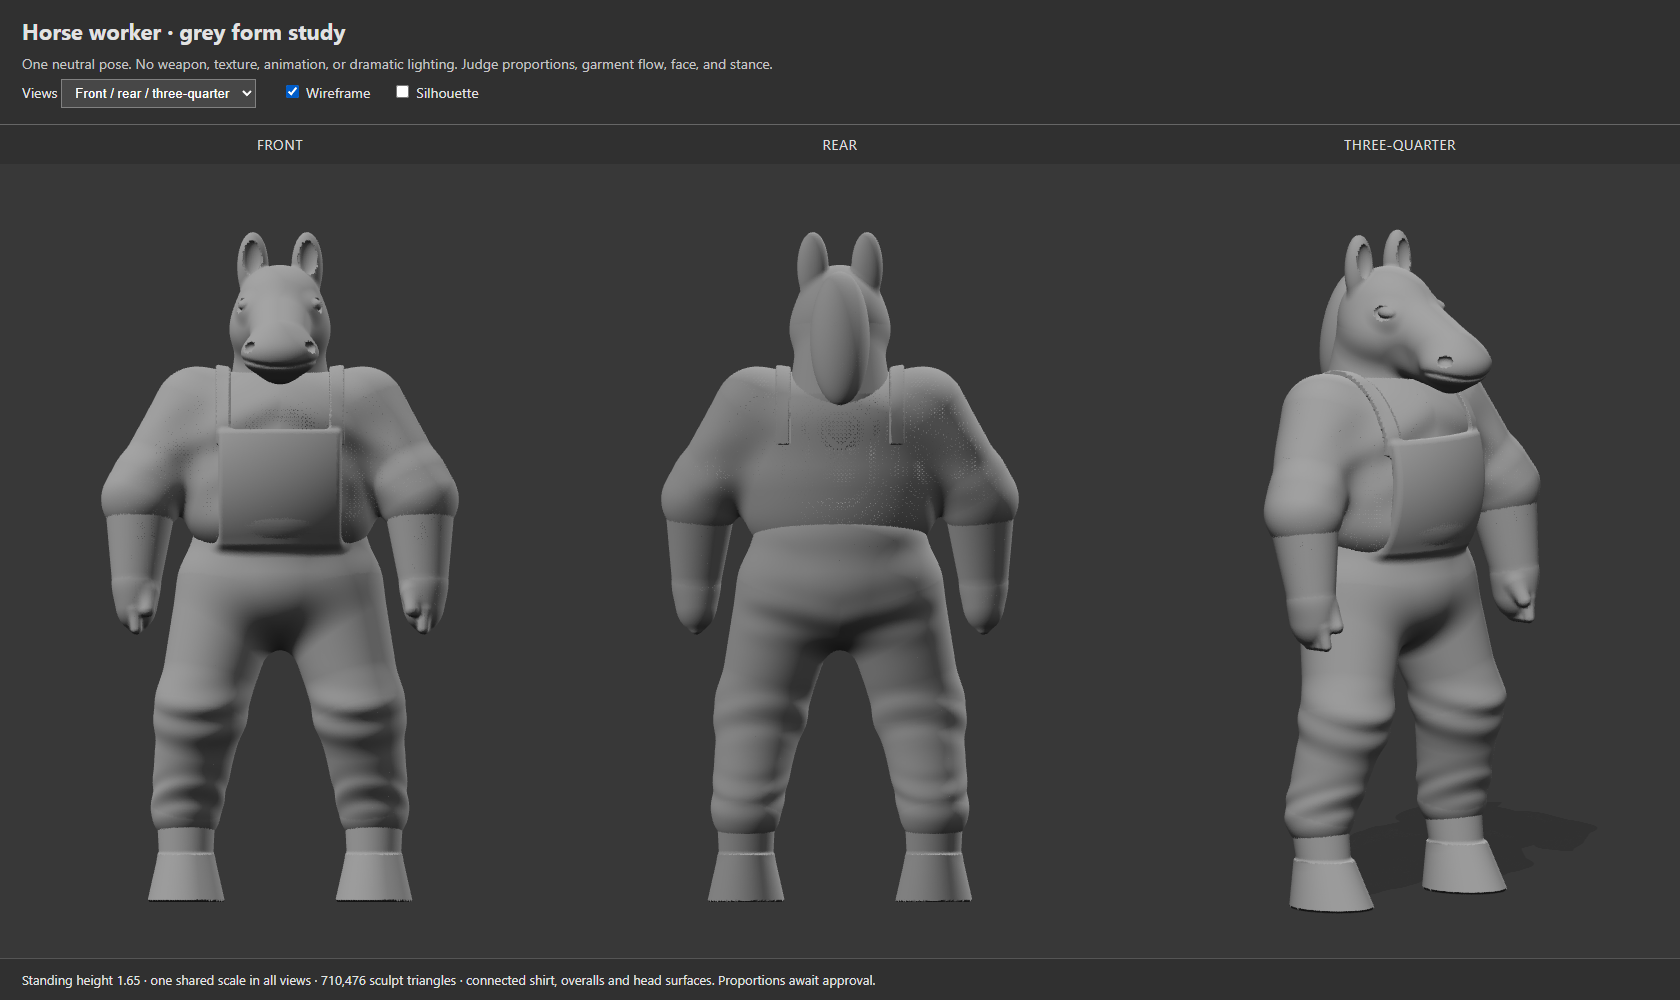
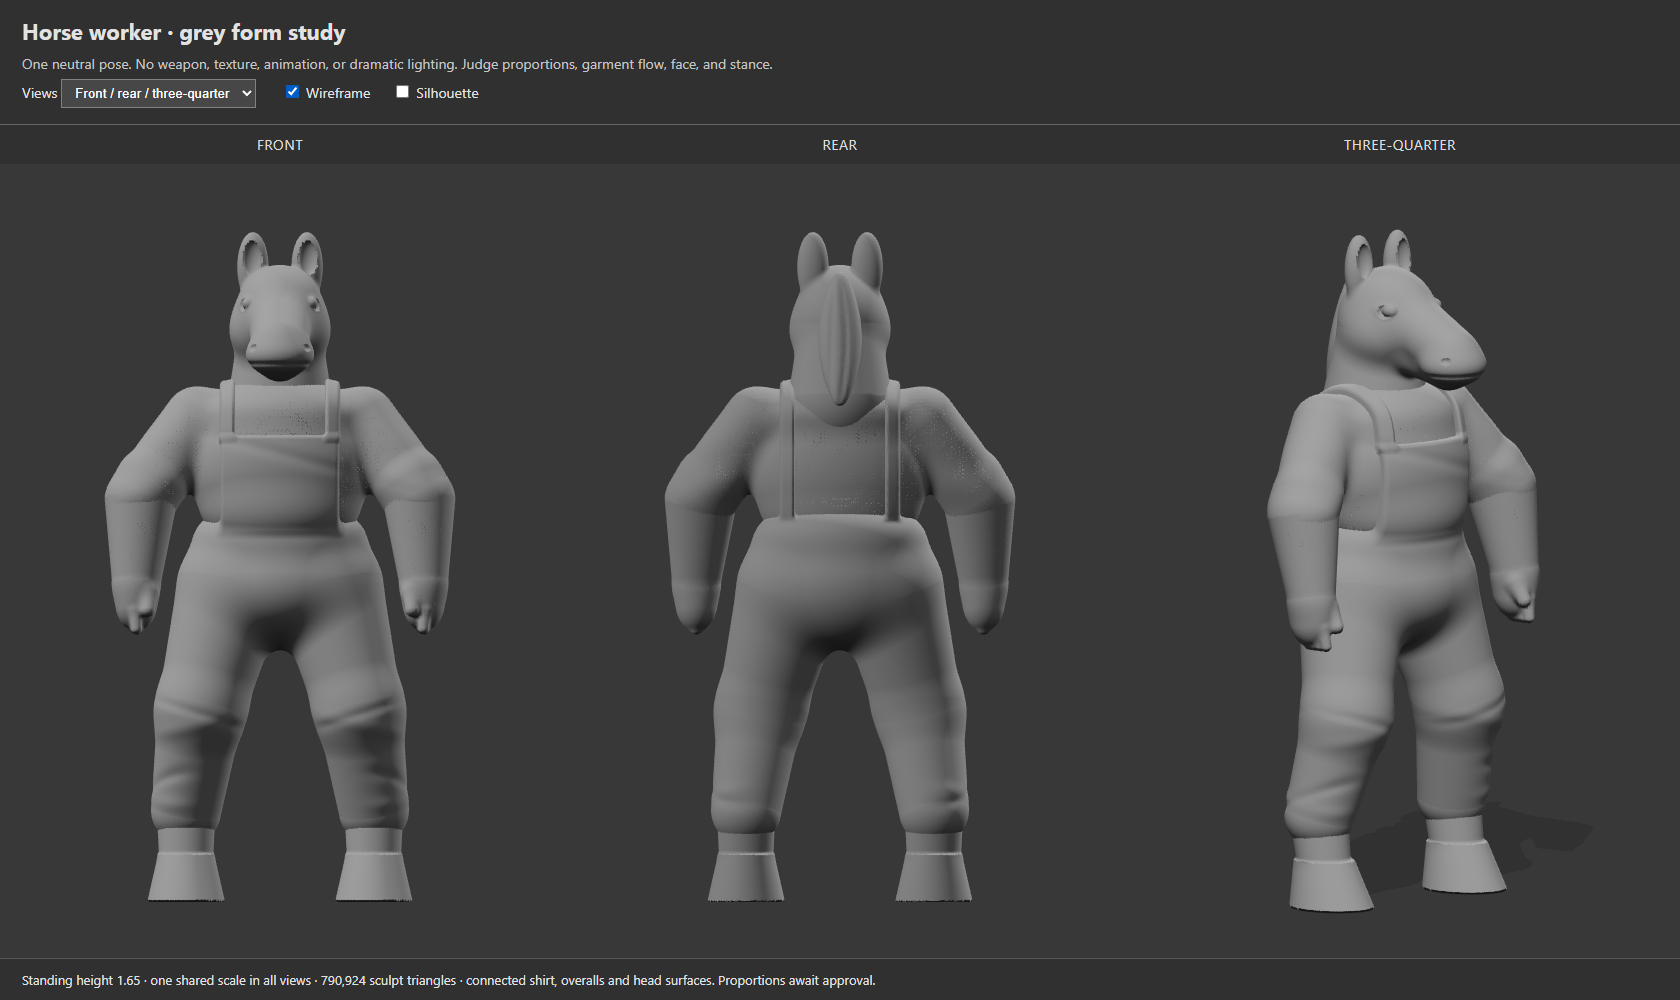
Refine grey horse shoulders clothing and expression

diff --git a/dist/tactics/horse-grey-model.js b/dist/tactics/horse-grey-model.js
@@ -8,20 +8,21 @@ export function createGreyHorse(){
  const root=new THREE.Group(),parts=[];
  const material=new THREE.MeshStandardMaterial({color:0x999999,roughness:.88,metalness:0});
  const abs=Math.abs,exp=Math.exp;
+ const clothEdge=(...fields)=>fields.reduce((a,b)=>-blend(-a,-b,.009));
  function add(name,field,min,max,step){const g=sculptSurface(field,min,max,step),m=new THREE.Mesh(g,material);m.name=name;m.castShadow=m.receiveShadow=true;parts.push(m);root.add(m);return m;}
 
  function shirt(x,y,z){
-  let d=blend(E(x,y,z,[-.025,1.065,0],[.185,.245,.255]),E(x,y,z,[-.04,1.195,0],[.160,.100,.240]),.07);
-  d=blend(d,E(x,y,z,[.005,.955,0],[.171,.125,.218]),.055);
+  let d=blend(E(x,y,z,[-.025,1.075,0],[.156,.216,.224]),E(x,y,z,[-.04,1.205,0],[.139,.067,.205]),.045);
+  d=blend(d,E(x,y,z,[-.014,.965,0],[.142,.108,.183]),.035);
   for(const side of [-1,1]){
-   d=blend(d,C(x,y,z,[-.045,1.215,side*.205],[.012,1.005,side*.335],.105,.089),.050);
-   d=blend(d,C(x,y,z,[.012,1.035,side*.322],[.023,.993,side*.344],.096,.096),.014);
+   d=blend(d,C(x,y,z,[-.045,1.191,side*.205],[.012,1.005,side*.335],.080,.085),.035);
+   d=blend(d,C(x,y,z,[.012,1.035,side*.322],[.023,.993,side*.344],.086,.086),.010);
   }
   // Broad sleeve compression near rolled cuffs; two diagonal underarm tension folds.
   const sleeve=exp(-(((abs(z)-.32)/.080)**2))*exp(-(((y-1.03)/.11)**2));
   d+=.0035*Math.sin((y-1.0)*45+abs(z)*12)*sleeve;
   const chest=exp(-(((x-.13)/.065)**2))*exp(-(((y-1.13)/.15)**2));
-  d+=.0045*Math.sin((y+abs(z)*.52)*49)*chest;
+  d+=.003*exp(-(((y-1.105-z*.28)/.018)**2))*chest;
   return d;
  }
  add('connected shirt and sleeves',shirt,[-.26,.80,-.48],[.23,1.34,.48],.010);
@@ -35,16 +36,24 @@ export function createGreyHorse(){
   }
   // Seat/waist and both legs are one field, with a real crotch arch.
   // Low bib follows the chest; straps rise from it rather than floating on a yoke.
-  const front=-.015+.19*Math.sqrt(Math.max(.05,1-((y-1.055)/.27)**2-(z/.28)**2));
-  d=blend(d,B(x-front,y,z,[.004,1.020,0],[.014,.145,.15],.010),.032);
-  if(abs(abs(z)-.14)<.04&&y>1.115){const strap=Math.max(abs(shirt(x,y,z)-.005)-.006,abs(abs(z)-.14)-.017,1.13-y);d=blend(d,strap,.012);}
-  const knee=exp(-(((y-.46)/.060)**2))*exp(-(((abs(z)-.19)/.12)**2));
-  const ankle=exp(-(((y-.265)/.045)**2))*exp(-(((abs(z)-.23)/.11)**2));
-  const seat=exp(-(((y-.70)/.07)**2))*exp(-(((x+.16)/.055)**2));
-  d+=.0055*Math.sin((y+x*.40)*67)*knee+.004*Math.sin((y-x*.5)*94)*ankle+.0035*Math.sin((y-abs(z)*.25)*70)*seat;
+  // Thin cloth follows the actual shirt field, merging into the waistband.
+  const bib=clothEdge(shirt(x,y,z)-.017,abs(z)-.145,.91-y,y-1.15,.035-x);
+  d=blend(d,bib,.018);
+  const strapBottom=.94+.20*Math.max(0,Math.min(1,(x+.03)/.12));
+  const strap=clothEdge(shirt(x,y,z)-.017,abs(abs(z)-.13)-.017,strapBottom-y);d=blend(d,strap,.012);
+  // Local oblique creases: directional compression, never rings around the legs.
+  for(const side of [-1,1]){
+   const local=z-side*.205;
+   const face=exp(-(((x-.090)/.070)**2))*exp(-((local/.105)**2));
+   d+=.005*exp(-(((y-.465-side*local*.32)/.015)**2))*face;
+   d-=.004*exp(-(((y-.435+side*local*.22)/.020)**2))*face;
+   const outer=exp(-(((local-side*.065)/.050)**2));
+   d+=.004*exp(-(((y-.285-x*.40)/.015)**2))*outer;
+   d-=.003*exp(-(((y-.250+x*.23)/.019)**2))*outer;
+  }
   return d;
  }
- add('connected overalls seat and legs',trousers,[-.25,.12,-.37],[.23,1.36,.37],.0065);
+ add('connected overalls seat and legs',trousers,[-.25,.12,-.37],[.23,1.36,.37],.0058);
 
  for(const side of [-1,1]){
   function arm(x,y,z){
@@ -74,27 +83,34 @@ export function createGreyHorse(){
   d=blend(d,E(x,y,z,[-.025,1.465,0],[.113,.106,.104]),.043);
   d=blend(d,E(x,y,z,[-.017,1.410,0],[.105,.091,.121]),.035);
   d=blend(d,C(x,y,z,[.026,1.452,0],[.195,1.372,0],.078,.069),.036);
-  d=blend(d,E(x,y,z,[.211,1.353,0],[.079,.059,.095]),.025);
-  d=blend(d,C(x,y,z,[-.012,1.385,0],[.19,1.328,0],.064,.047),.025);
+  d=blend(d,E(x,y,z,[.203,1.350,0],[.076,.049,.082]),.025);
+  d=blend(d,C(x,y,z,[-.012,1.385,0],[.181,1.329,0],.060,.040),.025);
   for(const side of [-1,1]){
    d=blend(d,E(x,y,z,[-.062,1.567,side*.067],[.030,.085,.037]),.014);
-   d=blend(d,E(x,y,z,[.037,1.461,side*.066],[.047,.033,.034]),.022);
-   d=Math.max(d,-E(x,y,z,[.058,1.475,side*.101],[.032,.020,.020]));
-   d=blend(d,E(x,y,z,[.056,1.473,side*.086],[.024,.013,.016]),.006);
+   d=blend(d,E(x,y,z,[.030,1.473,side*.066],[.041,.021,.027]),.014);
+   d=Math.max(d,-E(x,y,z,[.059,1.477,side*.098],[.027,.022,.020]));
+   d=blend(d,E(x,y,z,[.056,1.477,side*.075],[.021,.016,.017]),.004);
    d=Math.max(d,-E(x,y,z,[.250,1.370,side*.077],[.021,.015,.020]));
    // Inner ear indentation and an integrated orbital ridge, not attached eye puffs.
    d=Math.max(d,-E(x,y,z,[-.039,1.589,side*.069],[.018,.044,.023]));
   }
-  const lipY=1.322+.015*(z/.085)**2,lipMask=Math.max(0,Math.min(1,(x-.16)/.05));
-  d+=.0040*exp(-(((y-lipY)/.006)**2))*lipMask;
+  const lipY=1.329,lipMask=Math.max(0,Math.min(1,(x-.16)/.05));
+  d+=.0025*exp(-(((y-lipY)/.006)**2))*lipMask;
   return d;
  }
  add('unified skull jaw neck and ears',head,[-.23,1.11,-.155],[.315,1.68,.155],.0055);
 
  // Hair is a single attached crest, following the rear neck/skull silhouette.
  function mane(x,y,z){
-  const t=Math.max(0,Math.min(1,(y-1.225)/.33));
-  return E(x,y,z,[-.19+.060*t,1.39,0],[.069,.165,.072]);
+  // One swept crest with curved longitudinal channels; no stacked repeated lobes.
+  const t=Math.max(0,Math.min(1,(y-1.23)/.32));
+  const cx=-.212+.079*t+.014*Math.sin(t*Math.PI);
+  const width=.040+.012*Math.sin(t*Math.PI);
+  let d=E(x,y,z,[cx,1.39,0],[.044,.166,width]);
+  const rear=exp(-(((x-cx+.032)/.035)**2));
+  d+=.004*exp(-(((z-.014*Math.sin(t*3.2))/.009)**2))*rear;
+  d+=.003*exp(-(((z+.025-.009*t)/.008)**2))*rear;
+  return d;
  }
  add('mane crest',mane,[-.26,1.19,-.10],[-.02,1.59,.10],.008);
 

diff --git a/docs/tactics/HYBRID-GREY-FORM-STUDY.md b/docs/tactics/HYBRID-GREY-FORM-STUDY.md
@@ -4,7 +4,7 @@ This separate study responds to the request for deliberate character modeling be
 
 The shirt and sleeves form one connected surface. The overalls join the bib, straps, waist, seat and both legs. The horse skull, cheeks, jaw, neck, ears and eye forms share one surface. Substantial forearms, a broad stance and exposed horse hooves restore the worker silhouette. Modeled folds describe sleeve compression and fabric around the knees, ankles and seat. All parts use the same plain grey material without texture maps.
 
-Standing height remains 1.65 world units, with both hoof bearing surfaces at zero. Tactical rules and the existing renderer are unchanged. This is a static sculpt/proportion study: its 710,476 triangles are not a proposed gameplay budget. Retopology, UV authoring and rigging remain future work after the user approves the forms.
+Standing height remains 1.65 world units, with both hoof bearing surfaces at zero. Tactical rules and the existing renderer are unchanged. This is a static sculpt/proportion study: its 790,924 triangles are not a proposed gameplay budget. Retopology, UV authoring and rigging remain future work after the user approves the forms.
 
 ## Evidence and review
 
@@ -14,7 +14,7 @@ Standing height remains 1.65 world units, with both hoof bearing surfaces at zer
 - `hybrid-review/grey-study/topology.png`
 - `hybrid-review/grey-study/checks.json`
 
-The hostile reviewer initially scored the study 8/10. Sleeve, forearm, eye, mouth and mane revisions raised the score to **9/10 for readiness to present the form decision**. Minor remaining observations concern sleepy eyelids, broadly blocked mane detail and strap edges. This review does not replace the user's approval of the proportions and garment shapes.
+For the initial version, the hostile reviewer scored the study 8/10. Sleeve, forearm, eye, mouth and mane revisions raised the score to **9/10 for readiness to present the form decision**. Minor remaining observations concern sleepy eyelids, broadly blocked mane detail and strap edges. This review does not replace the user's approval of the proportions and garment shapes.
 
 Validation passed: `node --test tests/horse-grey.test.mjs` and `node tools/horse-grey-review.mjs`. Geometry checks verify finite positions/normals, one connected component per part, closed manifold edges, the approved standing height, grounded soles and untextured materials. Browser checks found no page or network errors. The build manifest includes all four new viewer/model modules.
 
@@ -25,3 +25,13 @@ The previous high-detail textured experiment remains separate and uncommitted. T
 The original `dist/assets/characters/armed/horse-rifle.png` shows exposed hooves below the trousers. Replaced the footwear shapes with single sloped hoof capsules and short exposed pasterns, removing the long boot toes, sole slabs and boot shafts. The neutral pose and approved standing height remain unchanged. Refreshed all four review images; geometry and browser checks pass.
 
 Independent hostile review scored this bounded hoof correction **9/10**, with an independent geometry-test pass. This does not approve the full character or authorize texture/animation work.
+
+## Targeted grey proportion pass after architect review
+
+The architect did not approve proportions at `252e2b5`; the earlier review scores were not proportion approval. This pass reduces shoulder and sleeve inflation, fits the bib to the shirt surface and waist, seats the eyes within the skull, straightens and reduces the rounded mouth, reshapes the mane as a swept crest, and replaces repeated trouser rings with localized diagonal creases. Stance, exposed hooves, connected surfaces and the 1.65 standing height remain intact.
+
+The first revision received 8/10 for remaining bead-like eyes, rigid mane locks, rough garment edges and regular chest creases. A second revision addresses those findings. Geometry and browser checks pass; refreshed front, side, rear, three-quarter, silhouette and topology evidence is in the same review directory. This remains an untextured, static proportion study awaiting the user’s visual approval.
+
+The second visual review scored 8.5/10, requesting less hollow eyes and cleaner bib/strap borders. The third revision brings the eye surface forward within the socket and bevels cloth boundaries with consistent clearance from the underlying shirt. Both focused checks pass on this revision.
+
+Final independent hostile review: **9/10 for the targeted finishing corrections**. The reviewer found the eyes seated within their sockets, continuous clean bib/strap borders across views, and independently passing geometry checks. Overall proportions still require the user's approval before texture or animation.
